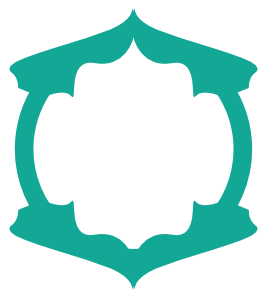
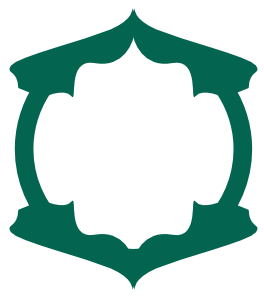
update:ui home and details

Changed region(s): [[0.0303, 0.0301, 1.0, 0.9632]]

diff --git a/templates/details copy.html b/templates/details copy.html
@@ -22,22 +22,15 @@
             display: flex;
             align-items: center;
             justify-content: space-between;
-            background-image: url({% static 'img/bgdetail.png' %});
-            padding: 20px;
-            width: auto;
-            height: 100%;
-            background-repeat: no-repeat;
-            background-size: cover;
-            background-position: center;
-            color: #fff;
+            padding: 14px;
+            /* background-image: linear-gradient(to right, #21d1ad, #159b80); */
+            color: white;
         }
 
         .header h1 {
-            font-size: 22px;
-            color: rgb(255, 255, 255);
+            font-size: 18px;
+            color: black;
             width: 50%;
-            text-align: center;
-            display: inline-block;
         }
 
         .search-bar {
@@ -60,7 +53,7 @@
             width: 38px;
             height: 38px;
             border-radius: 50px;
-            background-color: #03644F;
+            background-color: #159b80;
             box-shadow: 2px 16px 30px #51f8d79e;
             display: flex;
             align-items: center;
@@ -71,7 +64,7 @@
         #icons {
             width: 22px;
             height: 22px;
-            color: #ffffff;
+            color: #159b80;
             padding: 4px;
             border-radius: 8px;
             /* transform: translateY(2px); */
@@ -158,7 +151,7 @@
 
         .surah .info span {
             padding: 5px;
-            color: #03644F;
+            color: #159b80;
             position: relative;
         }
 
@@ -177,7 +170,7 @@
             font-weight: 700;
             font-size: 18px;
             margin-bottom: -10px;
-            color: #03644F;
+            color: #159b80;
         }
 
         #surah-name p:nth-child(2) {
@@ -192,47 +185,13 @@
         }
 
         .last-read {
-            background-image: linear-gradient(-30deg, #7EC89D, #03644F);
-            padding: 12px 18px;
+            background-image: linear-gradient(-30deg, #2ee7c2, #159b80);
+            padding: 12px 20px;
             border-radius: 12px;
-            margin-top: 20px;
-
-        }
-
-        .toggle-buttons {
             display: flex;
-            align-items: center;
-            justify-content: space-between;
+            flex-direction: column;
             gap: 10px;
         }
-        .toggle-buttons button {
-            background-color: #03644F;
-            color: white;
-            border: none;
-            padding: 10px 12px;
-            border-radius: 50px;
-            cursor: pointer;
-            font-size: 12px;
-            margin-top: 20px;
-            display: flex;
-            align-items: center;
-            justify-content: center;
-            gap: 5px;
-            transition: background-color 0.3s;
-        }
-
-        .toggle-buttons button:hover {
-            background-color: #7EC89D;
-        }
-        .toggle-buttons button:focus {
-            box-shadow: 0 4px 8px rgba(0, 0, 0, 0.2);
-        }
-        .toggle-buttons button #iconm{
-            background-color: #20846E;
-            padding: 5px;
-            border-radius: 50px;
-        }
-
     </style>
 </head>
 
@@ -241,33 +200,25 @@
         <a href="{% url 'alquran_list' %}">
             <ion-icon name="chevron-back-outline" id="icons"></ion-icon>
         </a>
-        <div style="width: 100%; text-align: center;">
-            <h1>{{ surah_info.nama }}</h1>
-            <h2 style="font-size: 12px; margin-top: -12px;">{{ surah_info.nama_latin }} ({{ surah_info.arti }})</h2>
+        <div class="" style=" width: 100%; display: flex; text-align: center; align-items: center; justify-content: center;">
+            <h1>{{ surah_info.nama_latin }}</h1>
         </div>
     </div>
     <section>
+
         <div class="last-read">
-            <img src="{% static 'img/bismi.png' %}" alt="billah" width="200px"
-                style=" display: block; margin-left: auto; margin-right: auto; padding: 10px;">
+            <div class="details">
+                <div style="text-align: center;">
+                    <span>Surah</span>
+                    <h4>{{ surah_info.nama_latin }} ({{ surah_info.arti }})</h4>
+                    <span>{{ surah_info.tempat_turun }} | {{ surah_info.jumlah_ayat }} Ayat</span>
+                    <!-- <span style="font-size: 30px;">بِسْمِ اللَّهِ الرَّحْمَنِ الرَّحِيم</span> -->
+                </div>
+            </div>
             <audio controls style="width: 100%;">
                 <source src="{{ surah_info.audio }}" type="audio/mpeg">
                 Your browser does not support the audio element.
             </audio>
-            <div class="toggle-buttons">
-                <button id="auto-scroll-toggle">
-                    <ion-icon name="chevron-collapse" id="iconm"></ion-icon>
-                    Scroll
-                </button>
-                <button id="toggle-terjemah">
-                    <ion-icon name="book" id="iconm"></ion-icon>
-                    Terjemah
-                </button>
-                <button id="toggle-terjemah">
-                    <ion-icon name="book" id="iconm"></ion-icon>
-                    Latin
-                </button>
-            </div>
         </div>
 
         <div class="surah-list">

diff --git a/templates/index.html b/templates/index.html
@@ -19,7 +19,7 @@
             align-items: center;
             justify-content: space-between;
             padding: 18px;
-            /* background-image: linear-gradient(to right, #21d1ad, #159b80); */
+            /* background-image: linear-gradient(to right, #21d1ad, #03644F); */
             color: white;
         }
 
@@ -41,7 +41,7 @@
             padding: 12px 14px;
             border-radius: 50px;
             border: none;
-            width: 50%;
+            width: 60%;
             border: 2px solid #35e4c149;
             /* box-shadow: 2px 16px 30px #30e6c2; */
         }
@@ -50,7 +50,7 @@
             width: 38px;
             height: 38px;
             border-radius: 50px;
-            background-color: #159b80;
+            background-color: #03644F;
             box-shadow: 2px 16px 30px #51f8d79e;
             display: flex;
             align-items: center;
@@ -76,7 +76,7 @@
         }
 
         .last-read{
-            background-image: linear-gradient(-30deg, #2ee7c2, #159b80);
+            background-image: linear-gradient(-30deg, #7EC89D, #03644F);
             padding: 12px 20px;
             display: flex;
             align-items: center;
@@ -138,7 +138,7 @@
         }
         .surah .info span{
             padding: 5px;
-            color: #159b80;
+            color: #03644F;
             position: relative;
         }
         .surah .info span img{
@@ -153,7 +153,7 @@
             font-weight: 700;
             font-size: 18px;
             margin-bottom: -10px;
-            color: #159b80;
+            color: #03644F;
         }
         #surah-name p:nth-child(2){
             color: gray;

diff --git a/api_alquran_app/views.py b/api_alquran_app/views.py
@@ -24,6 +24,7 @@ def alquran_details(request, id):
         # Extract `ayat` and other relevant data
         ayat = data.get('ayat', [])
         surah_info = {
+            'nama': data.get('nama', ''),
             'nama_latin': data.get('nama_latin', ''),
             'jumlah_ayat': data.get('jumlah_ayat', 0),
             'tempat_turun': data.get('tempat_turun', ''),
